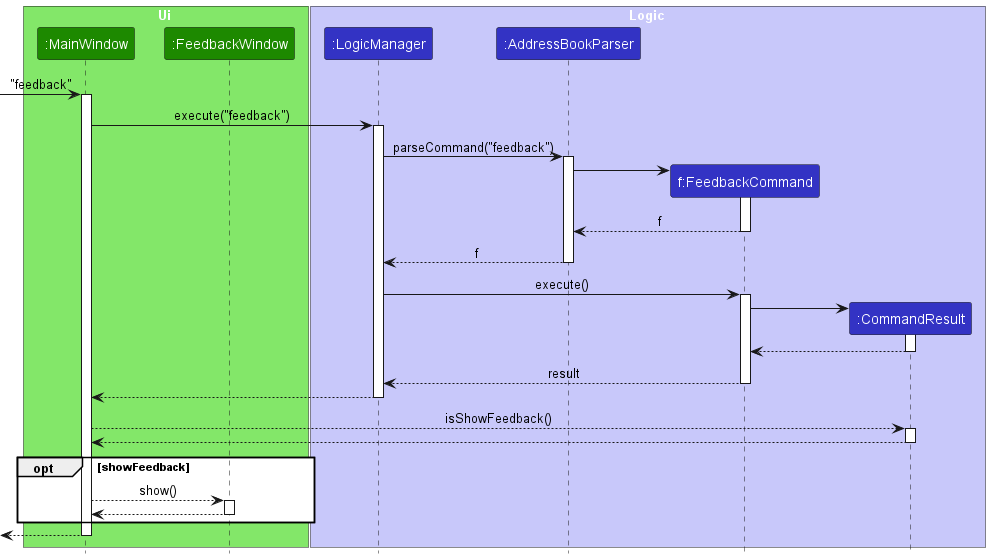
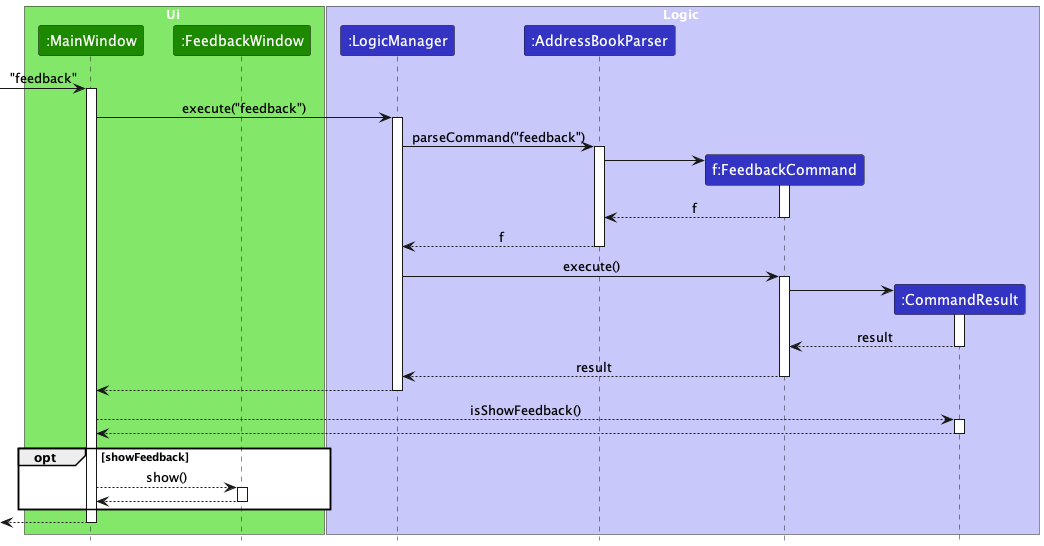
Update feedback sequence diagram and developer guide

diff --git a/docs/DeveloperGuide.md b/docs/DeveloperGuide.md
@@ -1040,7 +1040,7 @@ Enter the `list` command to view the student records. Repeat this for every test
         **Expected Outcome:** The left panel is empty.
 
 
-### B.9 Finding coursemates 
+### B.9 Finding a course 
 **Prerequisites:** Enter the `list` command to view the student records. Repeat this for every test case.
 
 1. The course is taken by at least one student:
@@ -1175,16 +1175,19 @@ Enter the `list` command to view the student records. Repeat this for every test
    To rectify this issue and improve the user experience, we intend to implement a solution that allows users to add multiple students with the same name to their Address Book. This enhancement will eliminate the restriction on duplicate names, ensuring that users can accurately and efficiently manage their contacts, even in cases of common names.
    * Implementation Details:
    The planned enhancement involves modifying the Address Book feature to accommodate duplicate names. We will remove the restriction of duplicate student names.
+   
 2. The current implementation of the Address Book allows for duplicate phone numbers, email addresses, and Telegram handles across contacts. This flexibility can lead to confusion and inaccuracies in managing contact information.
    * Proposed Enhancement:
    To enhance data integrity and streamline contact management, we are planning to implement a change that enforces the uniqueness of phone numbers, email addresses, and Telegram handles within the Address Book. This improvement will prevent the inclusion of duplicate contact information, ensuring that each entry remains distinct.
    * Implementation Details:
    The planned enhancement involves modifying the Address Book feature to validate and enforce the uniqueness of key contact information, specifically phone numbers, email addresses, and Telegram handles. When users attempt to add or update a contact with information matching an existing entry, NUSCoursemates will prevent them from doing so.
+   
 3. The current implementation of the system allows any email address containing the "@" symbol, which may not align with our specific user base of NUS SoC students. To ensure accurate and secure data, we aim to implement a check that requires email addresses to end with "@u.nus.edu".
    * Proposed Enhancement:
    We plan to enhance the system by enforcing the use of NUS SoC student email addresses ending with "@u.nus.edu". This change will ensure that all email addresses within the system adhere to NUS's email domain, reducing the risk of incorrect email addresses.
    * Implementation Details:
    The planned enhancement involves implementing an email address validation check during the contact creation or update process. When users enter or update an email address, the system will verify that it ends with the required "@u.nus.edu" domain. If the email address does not meet this criterion, NUSCoursemates will prevent them from doing so.
+
 4. Currently, our system's error message for invalid input related to the 'theme' command doesn't effectively communicate the nature of the error. Users may receive an error message that implies a problem with the command format, even when the issue is with the parameter itself. 
    * Proposed Enhancement:
    To improve user understanding and minimize confusion, we plan to enhance the error message associated with the 'theme' command. Rather than attributing the error to the command format, we will explicitly communicate that the error is due to an invalid parameter and provide clear guidance on the accepted inputs. 
